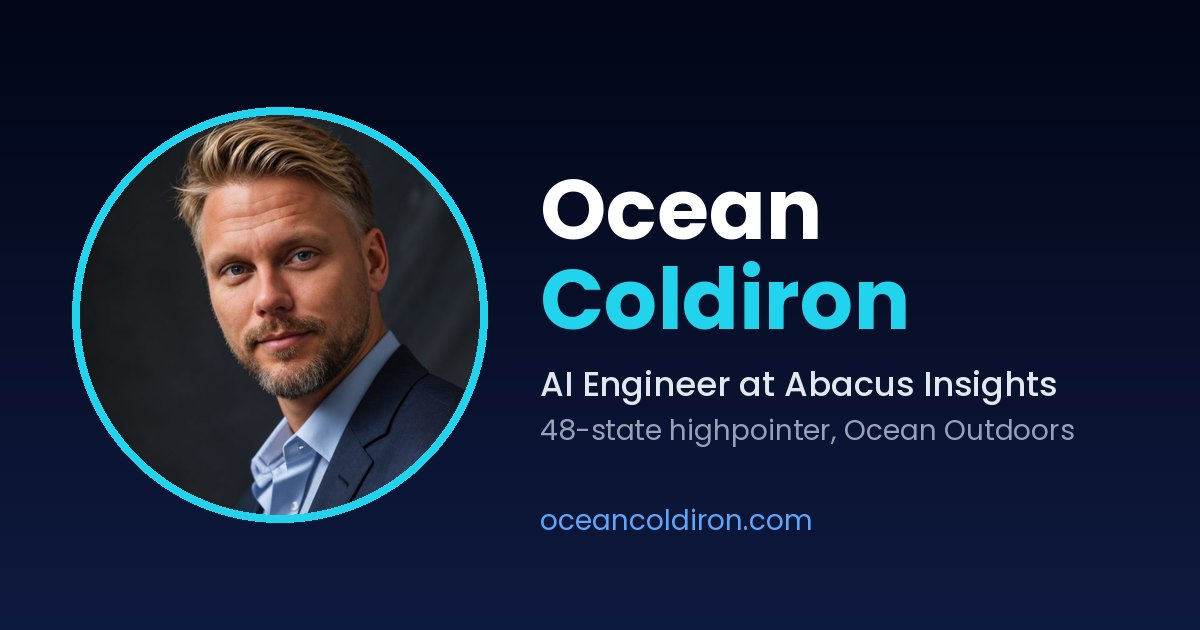
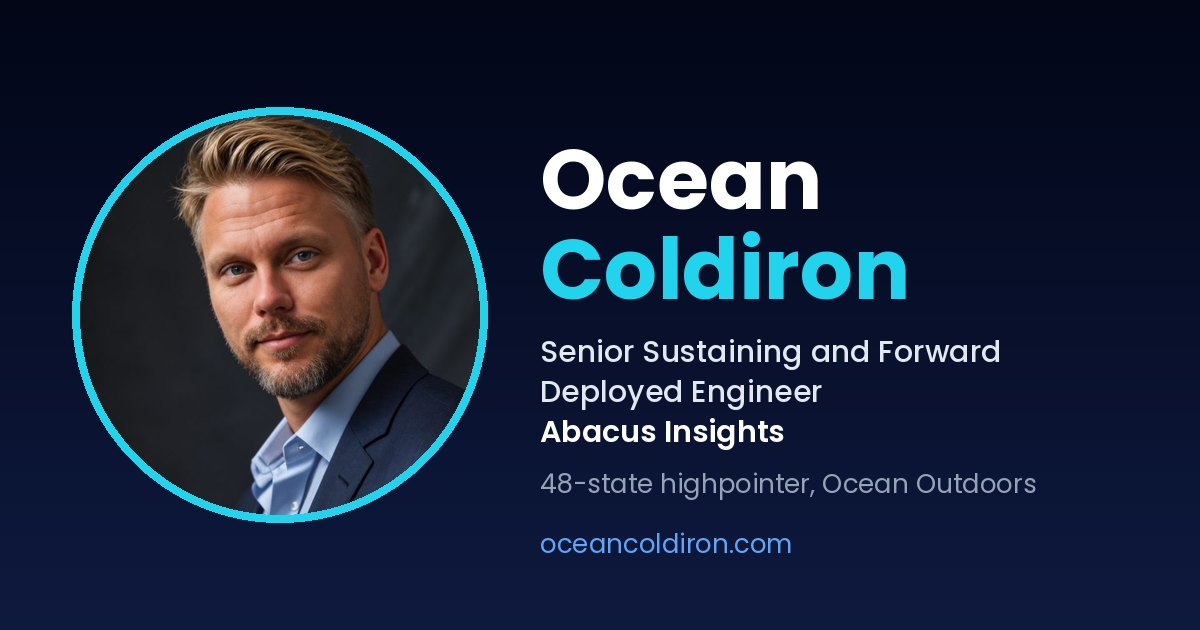
OG card and image alt: Senior Sustaining and Forward Deployed Engineer, Abacus Insights

Changed region(s): [[0.4317, 0.2413, 0.8942, 0.7238], [0.4317, 0.754, 0.8633, 0.8746]]

diff --git a/frontend/index.html b/frontend/index.html
@@ -25,12 +25,12 @@
   <meta property="og:image:type" content="image/jpeg" />
   <meta property="og:image:width" content="1200" />
   <meta property="og:image:height" content="630" />
-  <meta property="og:image:alt" content="Ocean Coldiron, AI engineer at Abacus Insights" />
+  <meta property="og:image:alt" content="Ocean Coldiron, Senior Sustaining and Forward Deployed Engineer at Abacus Insights" />
   <meta name="twitter:card" content="summary_large_image" />
   <meta name="twitter:title" content="Ocean Coldiron | Senior Sustaining and Forward Deployed Engineer at Abacus Insights" />
   <meta name="twitter:description" content="MCP, RAG and agentic workflows shipped into regulated healthcare. Remote." />
   <meta name="twitter:image" content="https://oceancoldiron.com/og-ocean-coldiron.jpg" />
-  <meta name="twitter:image:alt" content="Ocean Coldiron, AI engineer at Abacus Insights" />
+  <meta name="twitter:image:alt" content="Ocean Coldiron, Senior Sustaining and Forward Deployed Engineer at Abacus Insights" />
   <meta name="theme-color" content="#020617" />
 
   <!-- Identity & Knowledge Graph: JSON-LD injected at build time from scripts/schema.mjs -->
